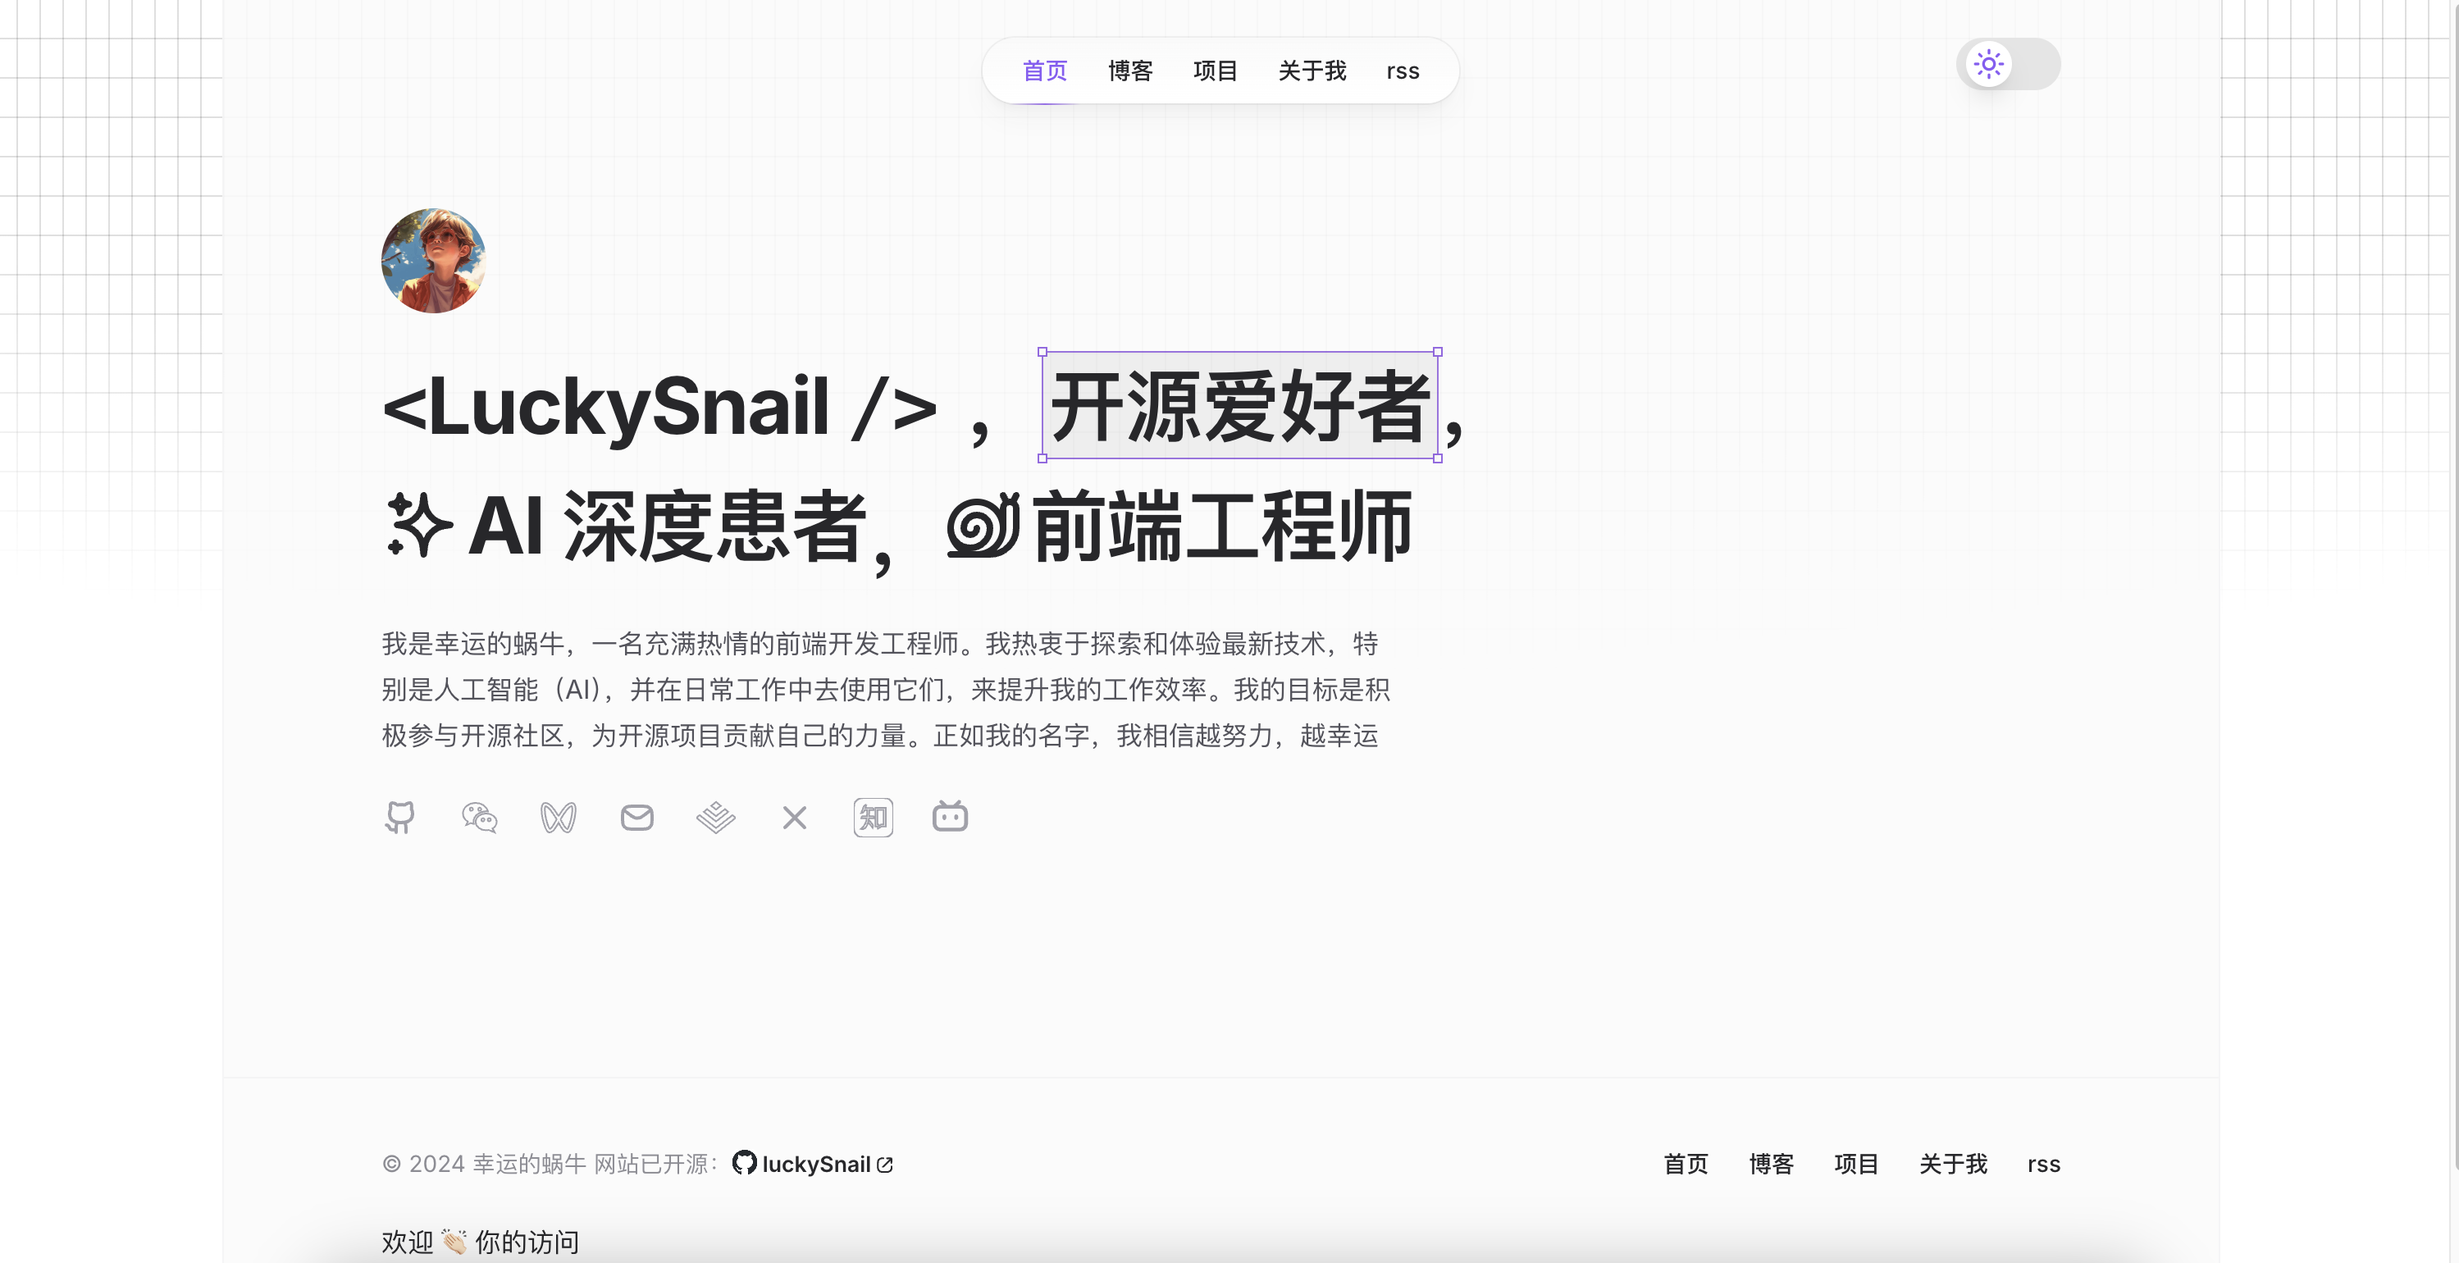
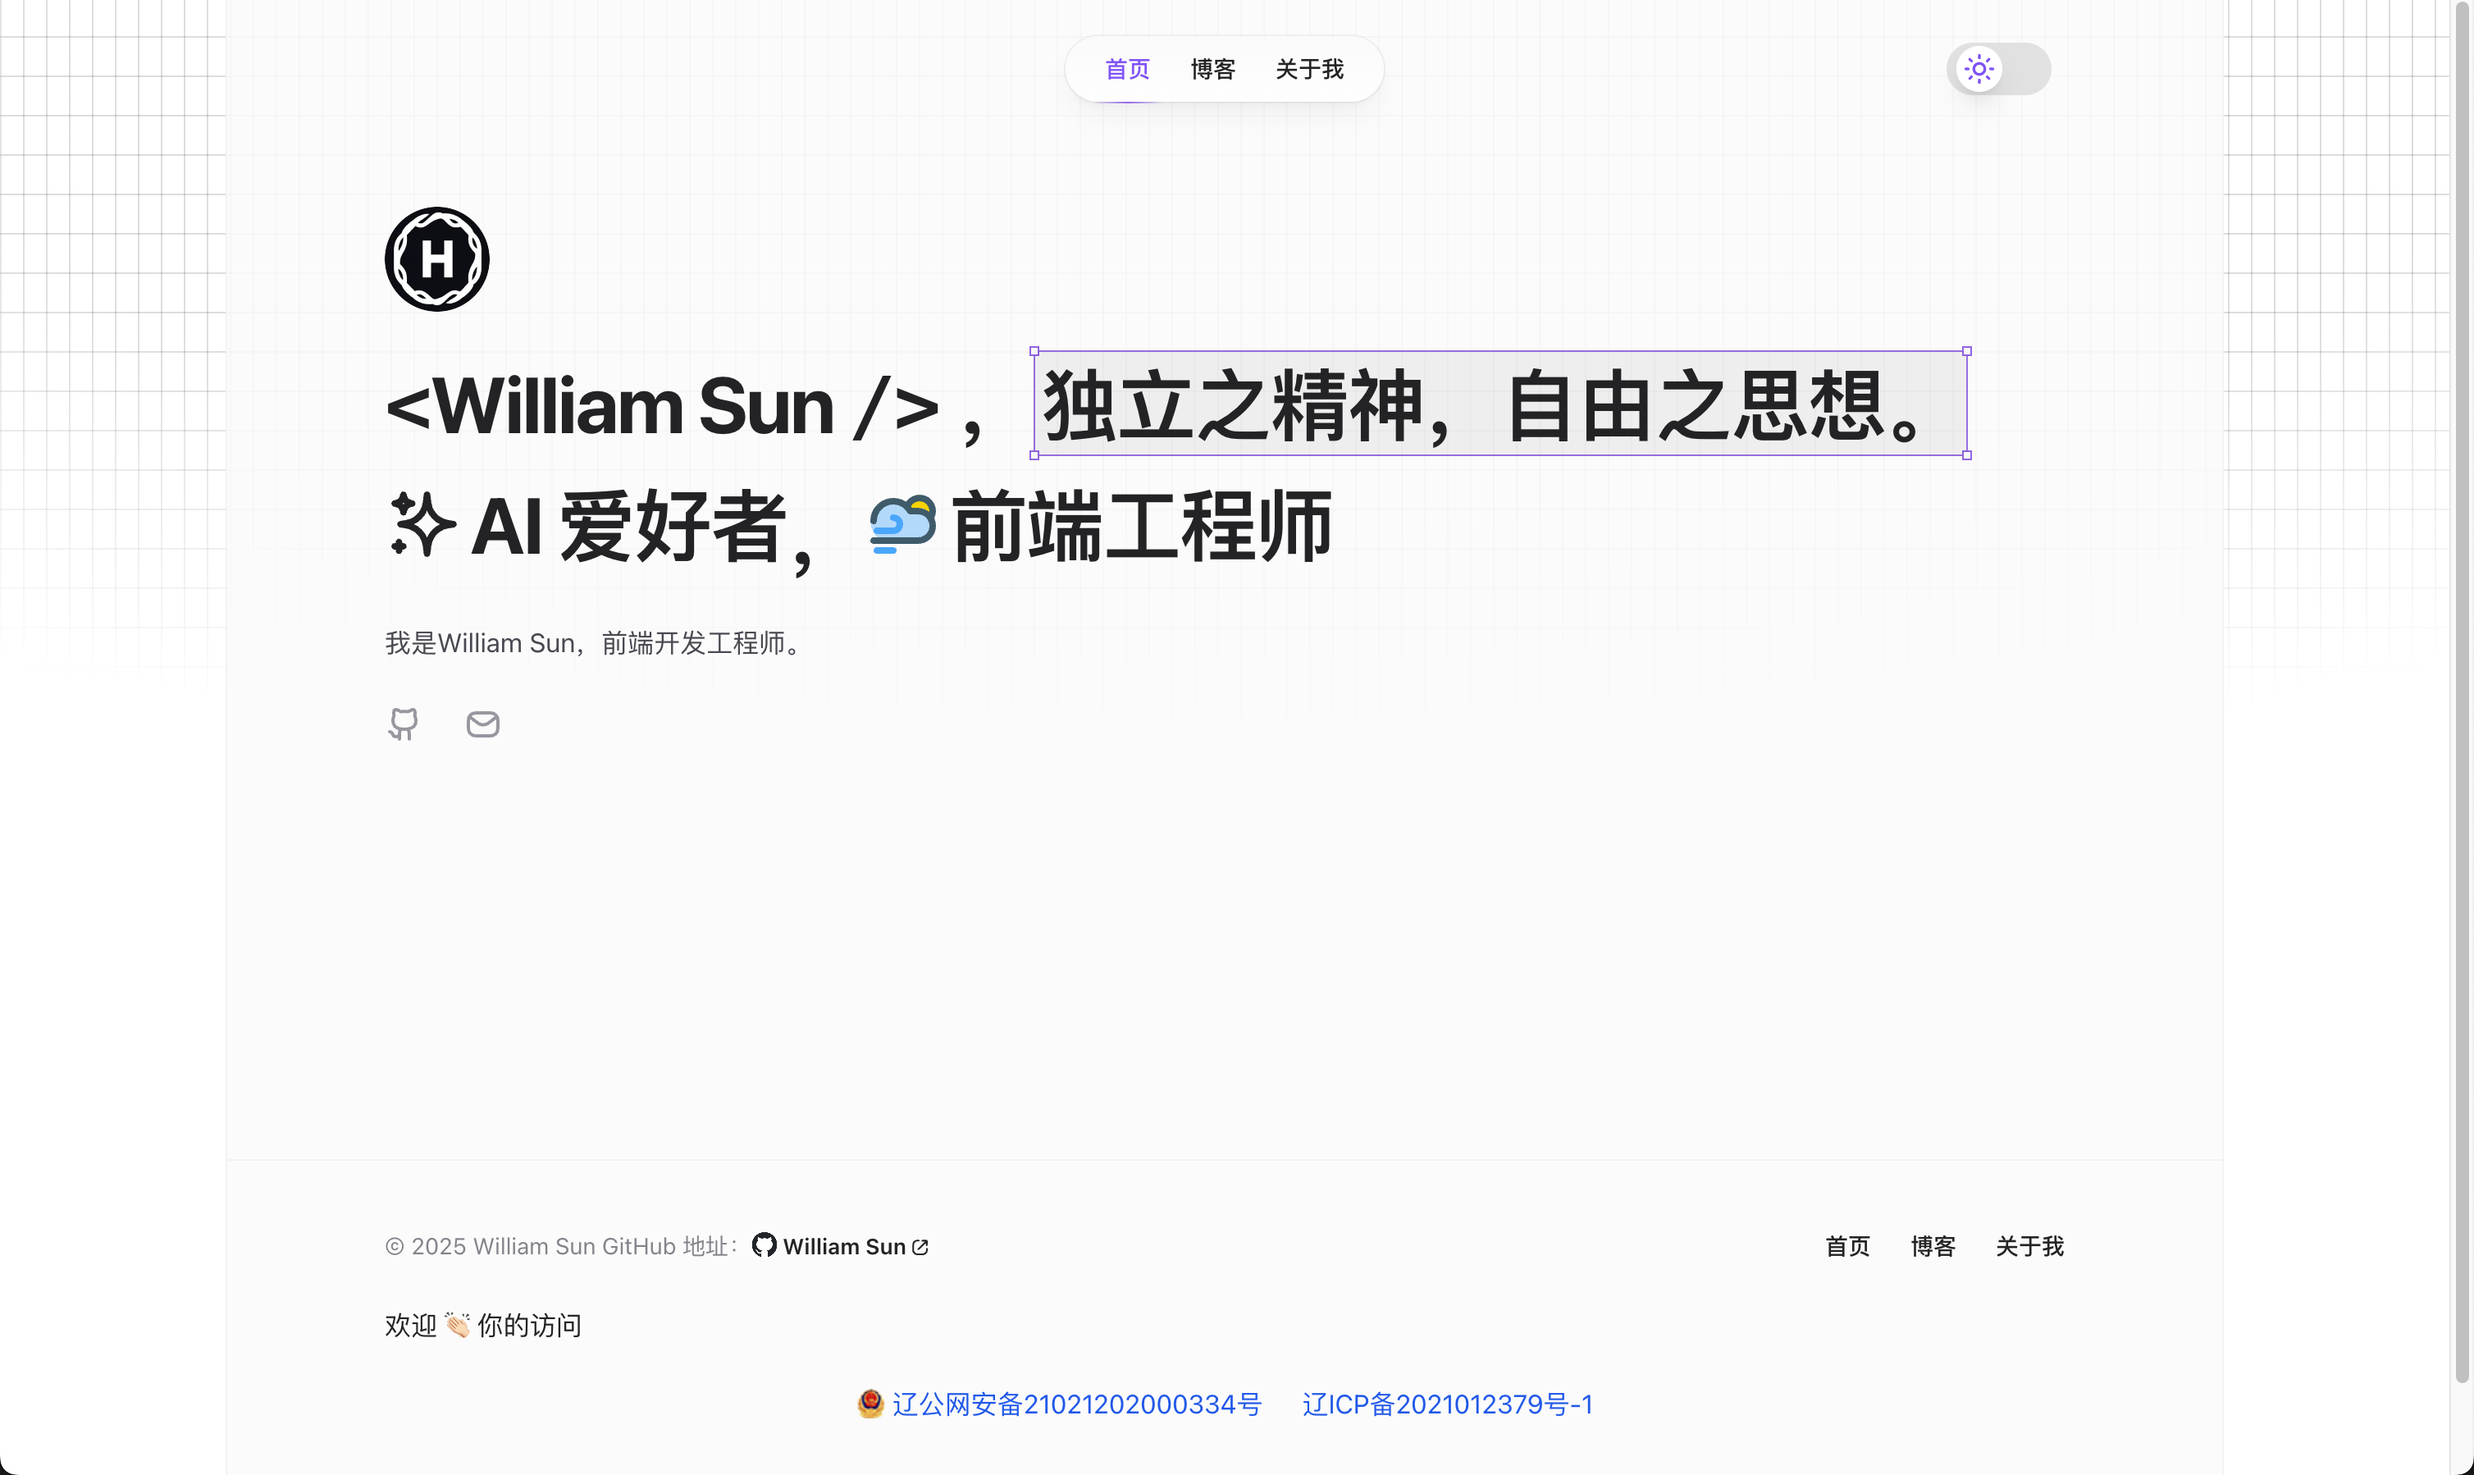
feat: 调整

diff --git a/src/components/IndexHeader.tsx b/src/components/IndexHeader.tsx
@@ -19,14 +19,14 @@ function Developer() {
 
 function Designer() {
 	return (
-		<span className="group relative bg-black/5 p-1 dark:bg-white/5">
+		<span className="whitespace-nowrap group relative bg-black/5 p-1 dark:bg-white/5">
 			<span className="pointer-events-none absolute inset-0 border border-violet-700/90 opacity-70 group-hover:border-dashed group-hover:opacity-100 dark:border-violet-400/90">
 				<span className="absolute -left-[3.5px] -top-[3.5px] size-1.5 border border-violet-700 bg-zinc-50 dark:border-violet-400" />
 				<span className="absolute -bottom-[3.5px] -right-[3.5px] size-1.5 border border-violet-700 bg-zinc-50 dark:border-violet-400" />
 				<span className="absolute -bottom-[3.5px] -left-[3.5px] size-1.5 border border-violet-700 bg-zinc-50 dark:border-violet-400" />
 				<span className="absolute -right-[3.5px] -top-[3.5px] size-1.5 border border-violet-700 bg-zinc-50 dark:border-violet-400" />
 			</span>
-			开源爱好者
+			{siteMetadata.tagline}
 		</span>
 	);
 }
@@ -35,7 +35,7 @@ function OCD() {
 	return (
 		<span className="group inline-flex items-center">
 			<SparkleIcon className="mr-1 inline-flex transform-gpu transition-transform duration-500 group-hover:rotate-180" />
-			<span>AI 深度患者</span>
+			<span>AI 爱好者</span>
 		</span>
 	);
 }
@@ -51,7 +51,7 @@ function Founder() {
 
 export function Headline() {
 	return (
-		<div className="max-w-3xl">
+		<div>
 			<motion.h1
 				className="xs:text-3xl font-bold tracking-tight text-zinc-800 dark:text-zinc-100 sm:text-4xl lg:text-5xl "
 				initial={{ opacity: 0, y: 30 }}
@@ -63,7 +63,7 @@ export function Headline() {
 					duration: 0.3
 				}}
 			>
-				<Developer />，<Designer />，
+				<Developer />，<Designer />
 				<span className="block h-4" />
 				<OCD />，<Founder />
 			</motion.h1>

diff --git a/src/app/layout.tsx b/src/app/layout.tsx
@@ -2,7 +2,6 @@ import BaiDuAnalytics from '@/components/BaiDuAnalytics';
 import GoogleAnalytics from '@/components/GoogleAnalytics';
 import siteMetadata from '@/config/site';
 import { constructSiteUrl } from '@/lib';
-import Script from 'next/script';
 
 // import { getLocale } from 'next-intl/server';
 
@@ -57,7 +56,6 @@ export default async function RootLayout({
 			lang={siteMetadata.locale}
 			suppressHydrationWarning
 		>
-			<Script src="https://code.jquery.com/jquery-3.7.1.js" />
 			<body>
 				<GoogleAnalytics />
 				<BaiDuAnalytics />

diff --git a/src/config/site.ts b/src/config/site.ts
@@ -8,9 +8,10 @@ const url = new URL(
 export const baseSiteConfig: SiteConfig = {
 	name: 'blog | 前端 | 开发者',
 	description: '我是William Sun，前端开发工程师。',
+	tagline: '独立之精神，自由之思想。',
 	url: url.href,
 	// 网站预览图
-	ogImage: url.origin + '/logo.png',
+	ogImage: url.origin + '/og.png',
 	metadataBase: '/',
 	keywords: ['blog', '前端', '开发者', 'AI', '编程', '学习笔记', '程序员'],
 	authors: 'William Sun',

diff --git a/scripts/github/syncPost.js b/scripts/github/syncPost.js
@@ -42,7 +42,7 @@ tags: ${JSON.stringify(labels.map((item) => item.name))}
 ${closeImgTag(body.replace(/<br \/>/g, '\n'))}
 
 ---
-此文自动发布于：<a href="${html_url}" target="_blank">github issues</a>
+此文发布于：<a href="${html_url}" target="_blank">github issues</a>
 `;
 }
 

diff --git a/src/types/siteConfig.ts b/src/types/siteConfig.ts
@@ -29,6 +29,7 @@ export type SiteConfig = {
 	name: string;
 	authorsCN: string;
 	description: string;
+	tagline: string;
 	url: string;
 	email: string;
 	siteHostList: string[];
